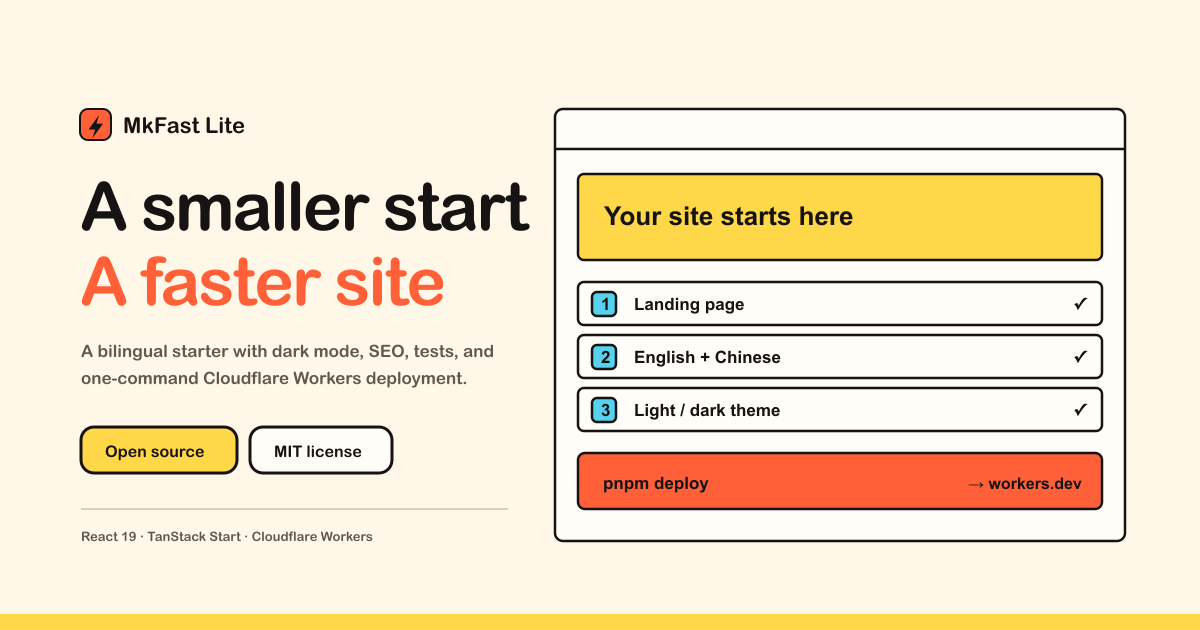
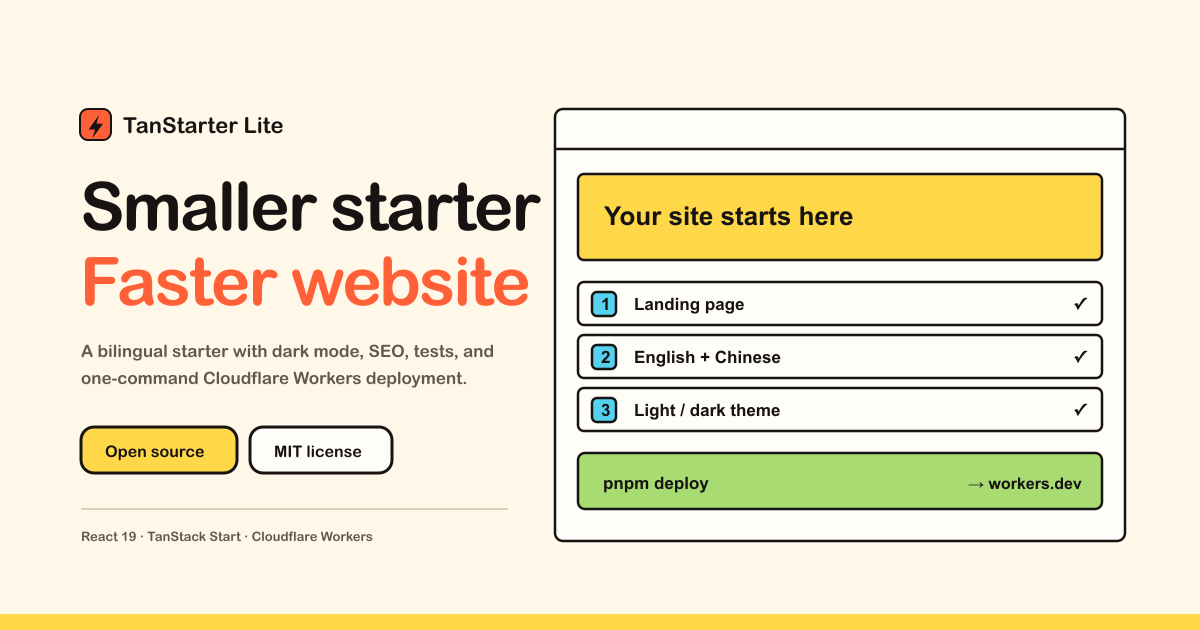
Rebrand project from MkFast Lite to TanStarter Lite

Changed region(s): [[0.0617, 0.2714, 0.4625, 0.4825], [0.4625, 0.6937, 0.925, 0.8143], [0.0925, 0.181, 0.2467, 0.2111]]

diff --git a/tests/e2e/home.spec.ts b/tests/e2e/home.spec.ts
@@ -41,7 +41,7 @@ test.describe('simple landing page', () => {
     await expect(page.locator('#faq')).toBeVisible();
     await expect(
       page.getByText(
-        `© ${new Date().getFullYear()} MkFast Lite. All rights reserved.`
+        `© TanStarter Lite ${new Date().getFullYear()}. All rights reserved.`
       )
     ).toBeVisible();
   });
@@ -65,7 +65,7 @@ test.describe('simple landing page', () => {
     await expect(page.getByText('结构完整的落地页')).toBeVisible();
     await expect(
       page.getByText(
-        `© ${new Date().getFullYear()} MkFast Lite。保留所有权利。`
+        `© TanStarter Lite ${new Date().getFullYear()}。保留所有权利。`
       )
     ).toBeVisible();
   });
@@ -78,15 +78,15 @@ test.describe('simple landing page', () => {
     await expect(page.locator('html')).toHaveAttribute('data-theme', 'light');
     await expect(page.locator('#stack')).toHaveCSS(
       'background-color',
-      'rgb(168, 220, 115)'
+      'rgb(196, 183, 242)'
     );
     await expect(page.locator('#architecture')).toHaveCSS(
       'background-color',
-      'rgb(255, 222, 89)'
+      'rgb(255, 216, 74)'
     );
     await expect(page.locator('#faq')).toHaveCSS(
       'background-color',
-      'rgb(196, 183, 242)'
+      'rgb(168, 220, 115)'
     );
     await theme.click();
     await page.getByRole('menuitemradio', { name: 'Dark' }).click();
@@ -132,7 +132,7 @@ test.describe('simple landing page', () => {
   test('opens one FAQ answer at a time', async ({ page }) => {
     await page.goto('/');
     const firstQuestion = page.getByRole('button', {
-      name: /Is MkFast Lite a SaaS starter/i,
+      name: /Is TanStarter Lite a SaaS starter/i,
     });
     const secondQuestion = page.getByRole('button', {
       name: /Can I add more pages/i,
@@ -178,7 +178,7 @@ test.describe('simple landing page', () => {
       page.getByRole('heading', { name: '这里没有页面。' })
     ).toBeVisible();
     await expect(
-      page.getByText('MkFast Lite 默认只提供一个简单的落地页。')
+      page.getByText('TanStarter Lite 默认只提供一个简单的落地页。')
     ).toBeVisible();
   });
 
@@ -195,6 +195,6 @@ test.describe('simple landing page', () => {
 
     const manifest = await request.get('/manifest.webmanifest');
     expect(manifest.ok()).toBe(true);
-    expect((await manifest.json()).name).toBe('MkFast Lite');
+    expect((await manifest.json()).name).toBe('TanStarter Lite');
   });
 });

diff --git a/src/components/layout/footer.tsx b/src/components/layout/footer.tsx
@@ -1,5 +1,6 @@
 import { Logo } from '@/components/shared/logo';
 import { Container } from '@/components/ui/primitives';
+import { websiteConfig } from '@/config/website';
 import { type AppLocale, message } from '@/lib/locale';
 
 export function Footer({ locale }: { locale: AppLocale }) {
@@ -9,12 +10,12 @@ export function Footer({ locale }: { locale: AppLocale }) {
         <div className="max-w-lg">
           <div className="mb-4 flex items-center gap-3">
             <Logo />
-            <span className="text-xl font-black">MkFast Lite</span>
+            <span className="text-xl font-black">{websiteConfig.name}</span>
           </div>
           <p className="text-paper/75">{message('footer_tagline', locale)}</p>
         </div>
         <p className="border-t-2 border-paper/20 pt-5 text-sm font-bold text-paper/65 sm:border-t-0 sm:pt-0 sm:text-right">
-          © MkFast Lite {new Date().getFullYear()}
+          © {websiteConfig.name} {new Date().getFullYear()}
           {locale === 'zh' ? '。' : '. '}
           {message('footer_rights', locale)}
         </p>

diff --git a/src/routes/__root.tsx b/src/routes/__root.tsx
@@ -80,7 +80,7 @@ function NotFound() {
 function RootDocument({ children }: { children: React.ReactNode }) {
   const pathname = useLocation({ select: (location) => location.pathname });
   const locale = currentLocale(pathname);
-  const themeScript = `(()=>{try{const t=localStorage.getItem('mkfast-lite-theme')||'system';const d=t==='dark'||(t==='system'&&matchMedia('(prefers-color-scheme:dark)').matches);document.documentElement.classList.toggle('dark',d);document.documentElement.dataset.theme=t;document.documentElement.style.colorScheme=d?'dark':'light'}catch{}})()`;
+  const themeScript = `(()=>{try{const t=localStorage.getItem('tanstarter-lite-theme')||'system';const d=t==='dark'||(t==='system'&&matchMedia('(prefers-color-scheme:dark)').matches);document.documentElement.classList.toggle('dark',d);document.documentElement.dataset.theme=t;document.documentElement.style.colorScheme=d?'dark':'light'}catch{}})()`;
   return (
     <html lang={localeMeta[locale].hreflang} suppressHydrationWarning>
       <head>

diff --git a/src/components/layout/header.tsx b/src/components/layout/header.tsx
@@ -1,8 +1,8 @@
 import { IconMenu2, IconX } from '@tabler/icons-react';
 import { useEffect, useState } from 'react';
 import { LanguageSwitcher } from '@/components/layout/language-switcher';
-import { Logo } from '@/components/shared/logo';
 import { ThemeSwitcher } from '@/components/layout/theme-switcher';
+import { Logo } from '@/components/shared/logo';
 import { Button } from '@/components/ui/button';
 import { ButtonLink, Container } from '@/components/ui/primitives';
 import { websiteConfig } from '@/config/website';
@@ -33,7 +33,7 @@ export function Header({ locale }: { locale: AppLocale }) {
           >
             <Logo />
             <span className="text-xl font-black tracking-[-0.02em]">
-              MkFast Lite
+              {websiteConfig.name}
             </span>
           </a>
 

diff --git a/tests/unit/core.test.ts b/tests/unit/core.test.ts
@@ -3,7 +3,7 @@ import { websiteConfig } from '@/config/website';
 import { localeMeta, localizedPath, message } from '@/lib/locale';
 import { cn } from '@/lib/utils';
 
-describe('MkFast Lite core contracts', () => {
+describe('TanStarter Lite core contracts', () => {
   it('uses localized simple home paths', () => {
     expect(localizedPath('en')).toBe('/');
     expect(localizedPath('zh')).toBe('/zh');
@@ -18,7 +18,7 @@ describe('MkFast Lite core contracts', () => {
   });
 
   it('keeps the repository as the only external destination', () => {
-    expect(websiteConfig.name).toBe('MkFast Lite');
+    expect(websiteConfig.name).toBe('TanStarter Lite');
     expect(websiteConfig.repository).toBe(
       'https://github.com/MkFastHQ/mkfast-lite'
     );

diff --git a/src/components/layout/theme-switcher.tsx b/src/components/layout/theme-switcher.tsx
@@ -33,7 +33,9 @@ export function ThemeSwitcher({ locale }: { locale: AppLocale }) {
   const [ready, setReady] = useState(false);
 
   useEffect(() => {
-    const stored = localStorage.getItem('mkfast-lite-theme') as Theme | null;
+    const stored = localStorage.getItem(
+      'tanstarter-lite-theme'
+    ) as Theme | null;
     const initial = themes.some((item) => item.value === stored)
       ? (stored as Theme)
       : 'system';
@@ -51,7 +53,7 @@ export function ThemeSwitcher({ locale }: { locale: AppLocale }) {
 
   function selectTheme(next: Theme) {
     setTheme(next);
-    localStorage.setItem('mkfast-lite-theme', next);
+    localStorage.setItem('tanstarter-lite-theme', next);
     applyTheme(next);
   }
 

diff --git a/src/routes/manifest[.]webmanifest.ts b/src/routes/manifest[.]webmanifest.ts
@@ -5,8 +5,8 @@ export const Route = createFileRoute('/manifest.webmanifest')({
     handlers: {
       GET: () =>
         Response.json({
-          name: 'MkFast Lite',
-          short_name: 'MkFast Lite',
+          name: 'TanStarter Lite',
+          short_name: 'TanStarter Lite',
           start_url: '/',
           display: 'standalone',
           background_color: '#fff8e8',

diff --git a/src/config/website.ts b/src/config/website.ts
@@ -1,5 +1,5 @@
 export const websiteConfig = {
-  name: 'MkFast Lite',
+  name: 'TanStarter Lite',
   repository: 'https://github.com/MkFastHQ/mkfast-lite',
   defaultTheme: 'system' as const,
   navigation: [

diff --git a/README.md b/README.md
@@ -1,4 +1,4 @@
-<h1 align="center">MkFast Lite</h1>
+<h1 align="center">TanStarter Lite</h1>
 
 <p align="center">
   A bilingual starter for a simple, fast public website.
@@ -11,18 +11,18 @@
 </p>
 
 <p align="center">
-  <a href="https://github.com/MkFastHQ/mkfast-lite">GitHub</a> ·
   <a href="#getting-started">Quick Start</a> ·
   <a href="#customize-the-template">Customize</a> ·
   <a href="#deploy-to-cloudflare-workers">Deploy</a>
 </p>
 
-[![MkFast Lite preview](./public/og.png)](https://github.com/MkFastHQ/mkfast-lite)
+[![TanStarter Lite preview](./public/og.png)](https://github.com/MkFastHQ/mkfast-lite)
 
-MkFast Lite is an open-source, deliberately small starter for a bilingual
-public website. It provides a complete English and Simplified Chinese landing
-page, light/dark/system themes, SEO endpoints, tests, and Cloudflare Workers
-deployment—without the operational surface of a SaaS starter.
+TanStarter Lite is the lite version of TanStarter: an open-source, deliberately
+small starter for a bilingual public website. It provides a complete English
+and Simplified Chinese landing page, light/dark/system themes, SEO endpoints,
+tests, and Cloudflare Workers deployment—without the operational surface of a
+SaaS starter.
 
 It intentionally does not include authentication, payments, persistence,
 storage, cache, transactional email, newsletters, or an admin surface. Add
@@ -141,8 +141,8 @@ To attach a hostname without making it the template default:
 pnpm exec wrangler deploy --domain your-site.example.com
 ```
 
-Do not commit personal domains, account IDs, tokens, or secrets to a project
-created from this template.
+Do not commit personal account IDs, tokens, or secrets to a project created
+from this template.
 
 ## Project map
 
@@ -171,9 +171,6 @@ pnpm build
 pnpm e2e
 git diff --check
 ```
-
-Use [GitHub Issues](https://github.com/MkFastHQ/mkfast-lite/issues) for bugs,
-feature requests, and questions about the template.
 
 ## Links
 

diff --git a/PRODUCT.md b/PRODUCT.md
@@ -19,11 +19,11 @@ need.
 
 ## Product Purpose
 
-MkFast Lite is a minimal web starter for a small simple website. It provides a
-complete bilingual landing page, responsive navigation, language and theme
-menus, light/dark/system themes, SEO fundamentals, tests, and Cloudflare
-Workers deployment without accounts, payments, databases, storage, cache,
-email, newsletters, or admin surfaces.
+TanStarter Lite is the lite version of TanStarter: a minimal web starter for a
+small simple website. It provides a complete bilingual landing page,
+responsive navigation, language and theme menus, light/dark/system themes, SEO
+fundamentals, tests, and Cloudflare Workers deployment without accounts,
+payments, databases, storage, cache, email, newsletters, or admin surfaces.
 
 Success means a developer can create a repository from the template, replace
 the central site configuration and locale copy, and deploy a polished site in
@@ -31,8 +31,8 @@ one short work session.
 
 ## Positioning
 
-MkFast Lite keeps the production-quality simple-site foundation of a modern
-React starter while deliberately excluding the operational surface of a SaaS
+TanStarter Lite keeps the production-quality simple-site foundation of
+TanStarter while deliberately excluding the operational surface of a SaaS
 application. Its mechanism is subtraction: one simple experience, one small
 configuration surface, and no unused service bindings.
 
@@ -51,7 +51,7 @@ configuration surface, and no unused service bindings.
 
 ## Brand Commitments
 
-- Name: MkFast Lite.
+- Name: TanStarter Lite.
 - Voice: direct, practical, energetic, and free of inflated claims.
 - Visual identity: an original neo-brutalist system with bold typography,
   visible construction, hard borders, offset shadows, and confident color.

diff --git a/DESIGN.md b/DESIGN.md
@@ -2,7 +2,7 @@
 
 ## Direction
 
-MkFast Lite uses an original workshop-poster form of neo-brutalism: a warm
+TanStarter Lite uses an original workshop-poster form of neo-brutalism: a warm
 paper-like canvas, dense black construction lines, offset printed color fields,
 and components that look assembled rather than polished into anonymity. Dark
 mode inverts the workshop into a late-night build desk without turning neon.

diff --git a/AGENTS.md b/AGENTS.md
@@ -1,4 +1,4 @@
-# MkFast Lite agent guide
+# Tanstarter Lite agent guide
 
 ## Purpose
 
